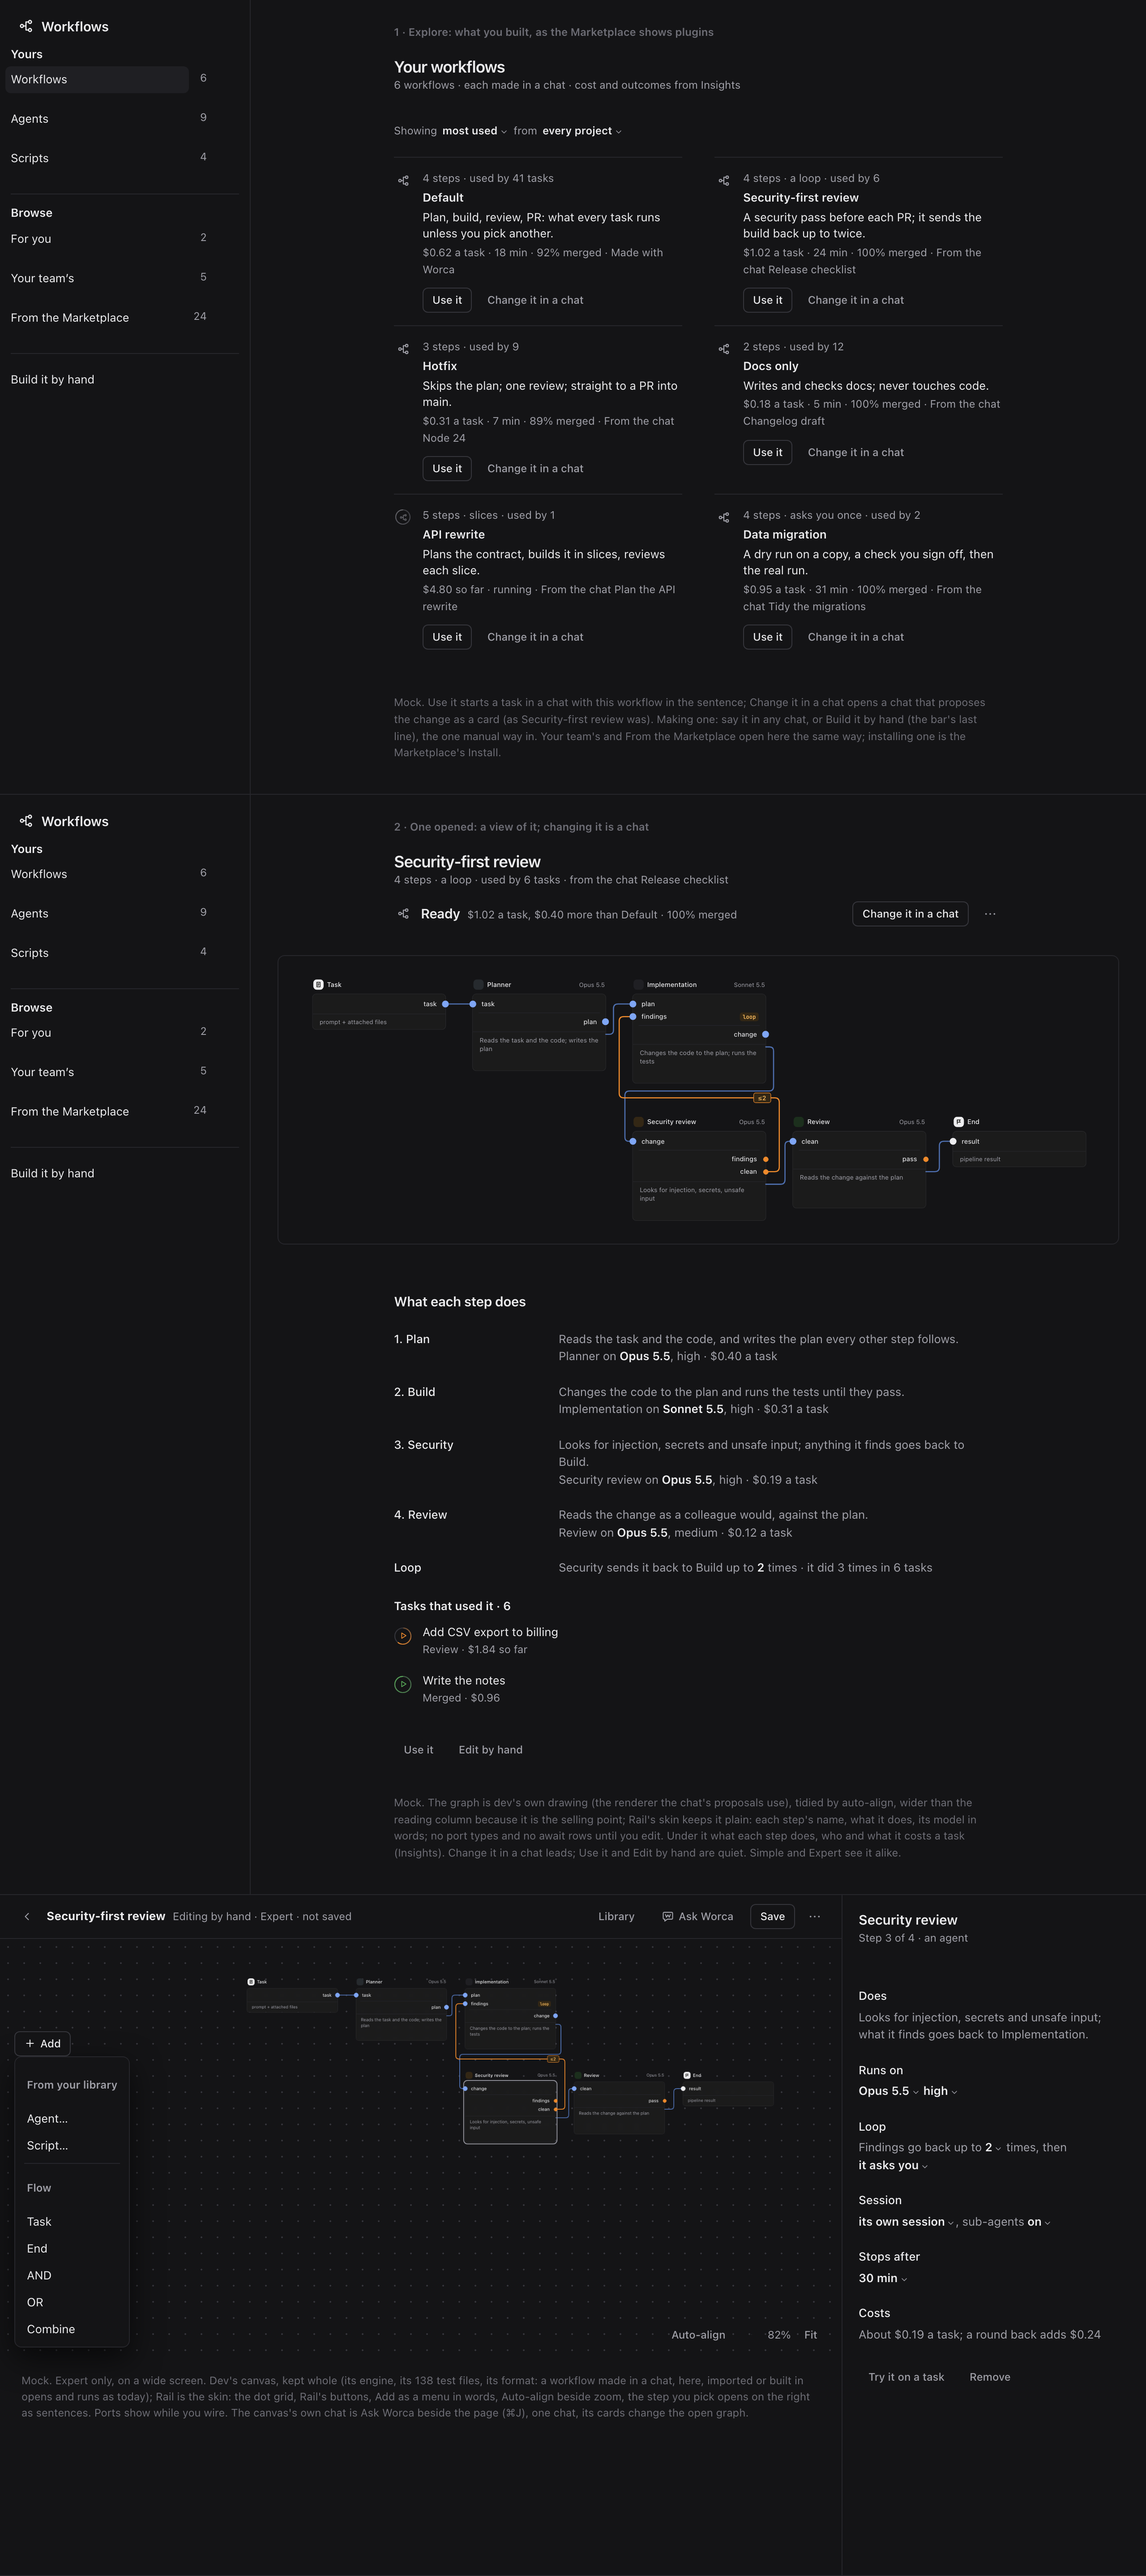
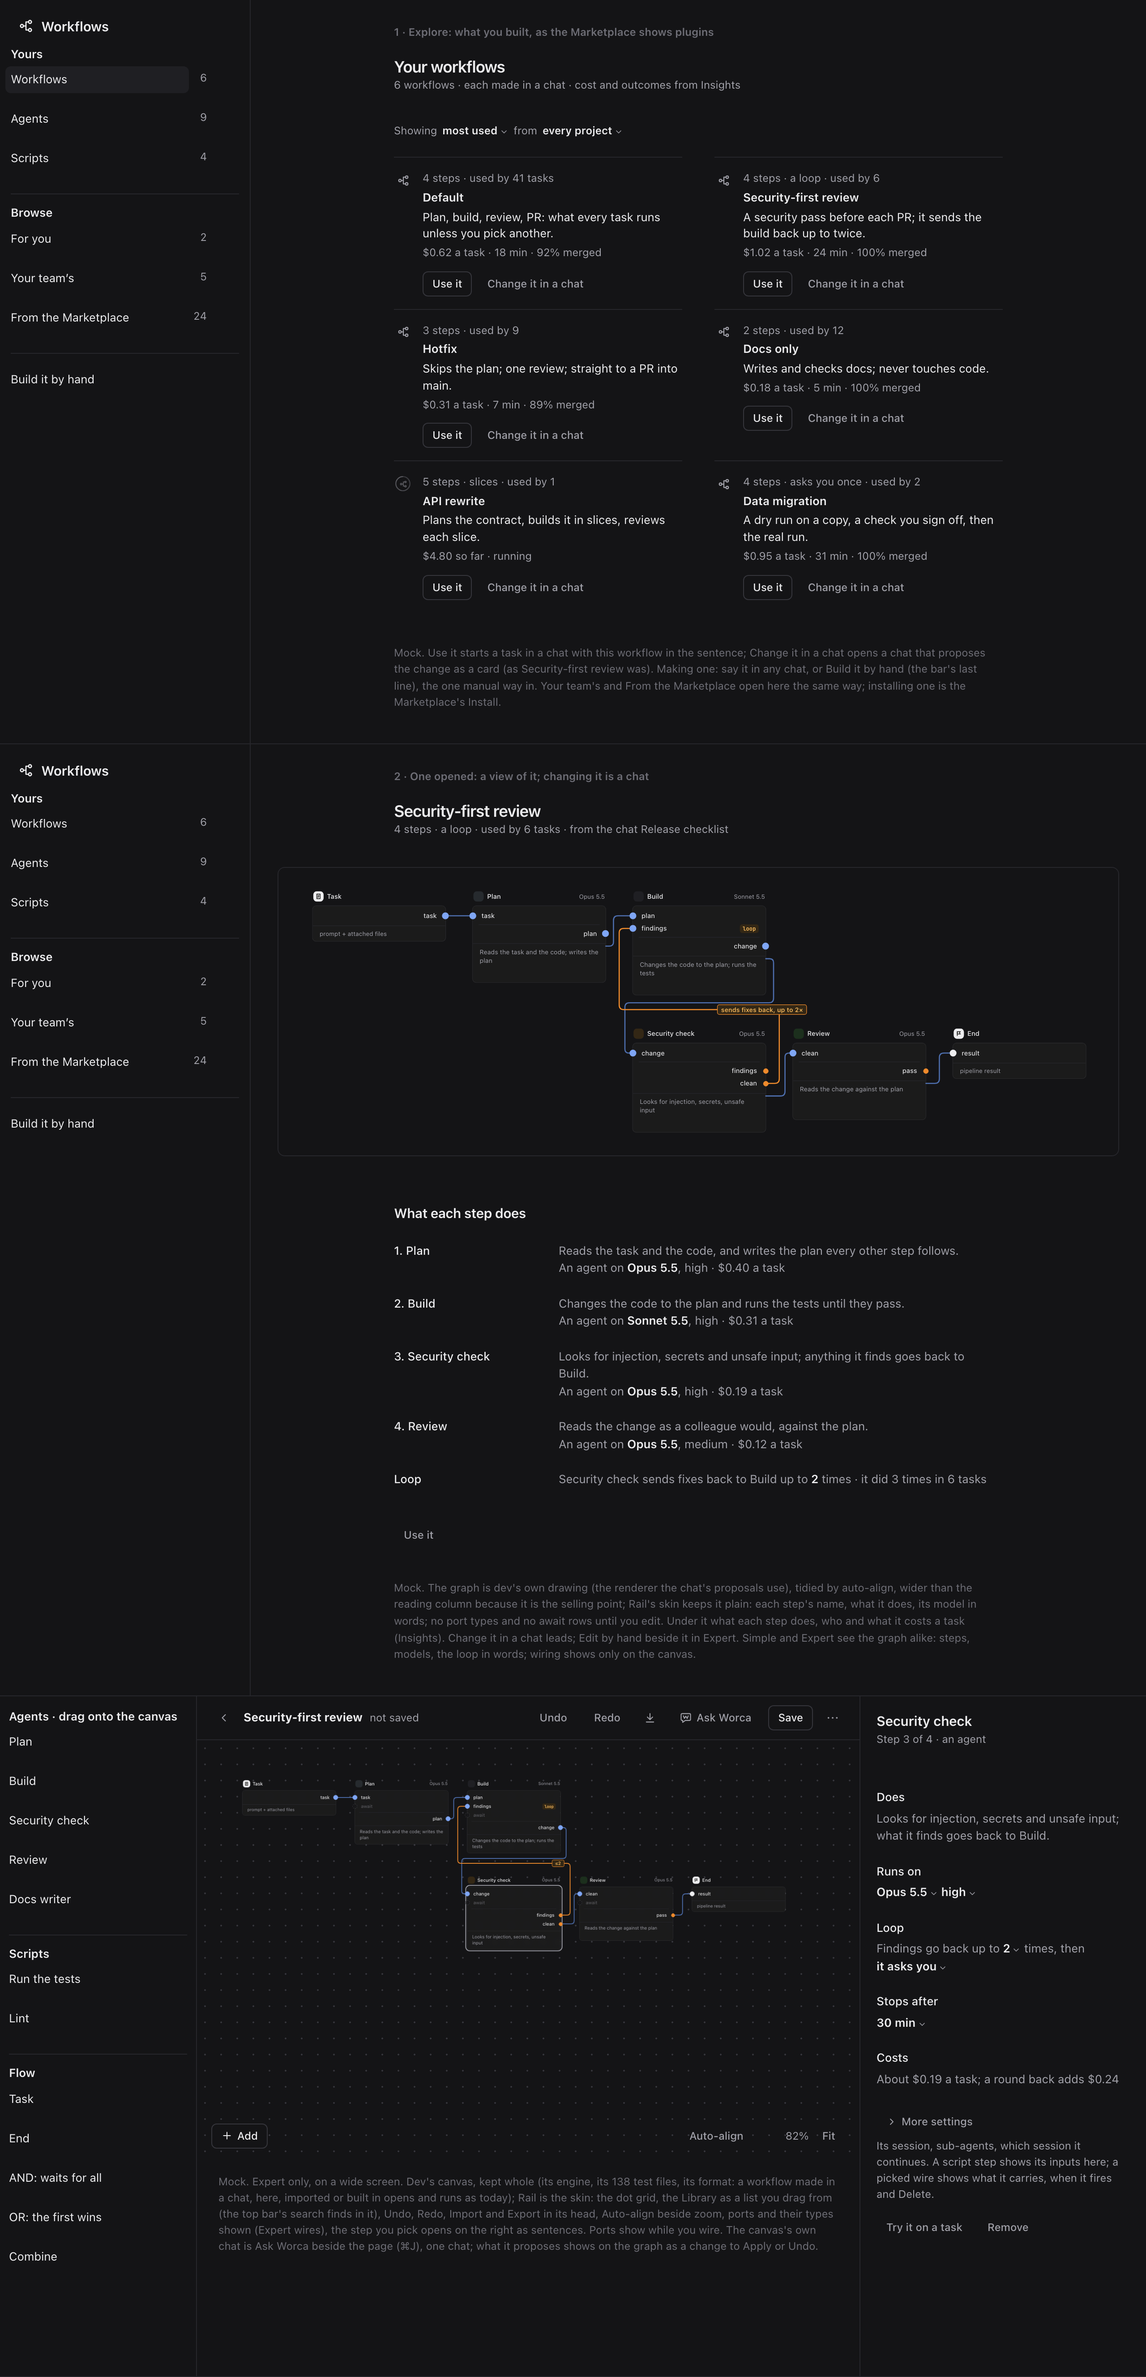
Wave 3: the Workflows mock after both personas: one set of names, the loop in words, cards without provenance; the Expert canvas with Undo, Redo, Import and Export, the Library to drag from, More settings

diff --git a/plans/rail/mocks/wave-3/workflows-2.html b/plans/rail/mocks/wave-3/workflows-2.html
@@ -26,13 +26,15 @@
   .acts{display:flex;gap:6px;margin:14px 0 0;}
   /* dev's graph (ui/public/graph/view.mjs) in Rail's skin: a wide well, plain words (no port types, no await rows) */
   .well{position:relative;height:auto;padding:0;margin:18px -130px 8px;border-radius:var(--r-md);background:var(--panel);border:1px solid var(--line);overflow:hidden;}
-  .skin .prow .pt,.skin .prow.gate,.skin.view .cond{display:none;}
+  .skin .prow .pt,.skin.view .prow.gate,.skin.view .cond{display:none;}
+  .skin.view .wbadge{white-space:nowrap;padding:0 6px;}
+  .lib{border-right:1px solid var(--line);padding:14px 10px;}
   .skin .node.is-picked{outline:2px solid var(--ink-2);outline-offset:3px;border-radius:var(--r-sm);}
-  .fr.ed{grid-template-columns:1fr 340px;}
+  .fr.ed{grid-template-columns:220px 1fr 320px;}
   .ed-top{display:flex;align-items:center;gap:8px;padding:10px 16px;border-bottom:1px solid var(--line);font-size:var(--fs-meta);color:var(--ink-2);}
   .ed-top b{color:var(--ink);font-size:var(--fs-body);} .ed-top .sp{flex:1;}
   .canvas{position:relative;height:470px;background-image:radial-gradient(var(--line-2) 1px,transparent 1px);background-size:18px 18px;}
-  .canvas .gv{position:absolute;left:250px;top:24px;width:640px;}
+  .canvas .gv{position:absolute;left:24px;top:24px;}
   .ed-tools{position:absolute;right:16px;bottom:14px;display:flex;gap:4px;align-items:center;font-size:var(--fs-meta);color:var(--ink-2);}
   .ed-add{position:absolute;left:16px;bottom:14px;}
   .ed-add .cmenu,.ed-add .compact-menu{position:absolute;left:0;bottom:40px;min-width:220px;}
@@ -57,26 +59,26 @@
     ['Docs only', 'Writes and checks docs; never touches code.', '2 steps · used by 12', '$0.18 a task · 5 min · 100% merged', 'From the chat Changelog draft'],
     ['API rewrite', 'Plans the contract, builds it in slices, reviews each slice.', '5 steps · slices · used by 1', '$4.80 so far · running', 'From the chat Plan the API rewrite'],
     ['Data migration', 'A dry run on a copy, a check you sign off, then the real run.', '4 steps · asks you once · used by 2', '$0.95 a task · 31 min · 100% merged', 'From the chat Tidy the migrations']];
-  const cards = W.map(([t, what, kicker, facts, from], k) => R.pluginCard({ mark: wf(k === 4 ? 'run' : 'idle'), kicker: `${kicker}`, title: t, what, facts: `${facts} · ${from}`, action: R.button({ label: 'Use it', kind: '' }), more: R.button({ label: 'Change it in a chat', kind: 'quiet' }) })).join('');
+  const cards = W.map(([t, what, kicker, facts, from], k) => R.pluginCard({ mark: wf(k === 4 ? 'run' : 'idle'), kicker: `${kicker}`, title: t, what, facts, action: R.button({ label: 'Use it', kind: '' }), more: R.button({ label: 'Change it in a chat', kind: 'quiet' }) })).join('');
   const browse = `<div class="col convo-col" style="margin:0"><p class="cap">1 · Explore: what you built, as the Marketplace shows plugins</p>${R.placeHead({ title: 'Your workflows', facts: '6 workflows · each made in a chat · cost and outcomes from Insights' })}
     <div class="sent">Showing ${R.sentencePicker({ id: 's', text: 'most used', items: [], chevron: R.icon('chevron', 10) })} from ${R.sentencePicker({ id: 'f', text: 'every project', items: [], chevron: R.icon('chevron', 10) })}</div>
     <div class="pg-grid">${cards}</div>
     <p class="note">Mock. Use it starts a task in a chat with this workflow in the sentence; Change it in a chat opens a chat that proposes the change as a card (as Security-first review was). Making one: say it in any chat, or Build it by hand (the bar's last line), the one manual way in. Your team's and From the Marketplace open here the same way; installing one is the Marketplace's Install.</p></div>`;
   // each step: what it does, in plain words, then who does it and what it costs a task
   const step = (n, name, does, who, m, e, cost) => R.settingsRow({ name: `${n}. ${name}`, sentence: `${does}<br><span style="color:var(--ink-2)">${who} on <b>${m}</b>, ${e} · ${cost} a task</span>` });
-  const page = `<div class="col convo-col" style="margin:0"><p class="cap">2 · One opened: a view of it; changing it is a chat</p>${R.placeHead({ title: 'Security-first review', facts: '4 steps · a loop · used by 6 tasks · from the chat Release checklist', mark: wf(), word: 'Ready', why: '$1.02 a task, $0.40 more than Default · 100% merged', action: R.button({ label: 'Change it in a chat', kind: '' }), menu: R.moreMenu({ id: 'x', label: 'More', icon: R.icon('more', 16), open: false, items: [] }) })}
+  const page = `<div class="col convo-col" style="margin:0"><p class="cap">2 · One opened: a view of it; changing it is a chat</p>${R.placeHead({ title: 'Security-first review', facts: '4 steps · a loop · used by 6 tasks · from the chat Release checklist', mark: wf(), why: '$1.02 a task, $0.40 more than Default · 100% merged', action: R.button({ label: 'Change it in a chat', kind: '' }) + R.button({ label: 'Edit by hand', kind: 'quiet' }), menu: R.moreMenu({ id: 'x', label: 'More', icon: R.icon('more', 16), open: false, items: [] }) })}
     <div class="well skin view" id="gv-view"></div>
-    ${R.settingsSection({ title: 'What each step does', rows: step(1, 'Plan', 'Reads the task and the code, and writes the plan every other step follows.', 'Planner', 'Opus 5.5', 'high', '$0.40') + step(2, 'Build', 'Changes the code to the plan and runs the tests until they pass.', 'Implementation', 'Sonnet 5.5', 'high', '$0.31') + step(3, 'Security', 'Looks for injection, secrets and unsafe input; anything it finds goes back to Build.', 'Security review', 'Opus 5.5', 'high', '$0.19') + step(4, 'Review', 'Reads the change as a colleague would, against the plan.', 'Review', 'Opus 5.5', 'medium', '$0.12') + R.settingsRow({ name: 'Loop', sentence: 'Security sends it back to Build up to <b>2</b> times · it did 3 times in 6 tasks' }) })}
-    ${R.list({ groups: [{ title: 'Tasks that used it · 6', rows: [R.listRow({ title: 'Add CSV export to billing', meta: 'Review · $1.84 so far', mark: R.kindMark({ kind: 'task', tone: 'ask', stage: 2 }), open: {} }), R.listRow({ title: 'Write the notes', meta: 'Merged · $0.96', mark: R.kindMark({ kind: 'task', tone: 'ok', stage: 4 }), open: {} })] }] })}
-    <div class="acts">${R.button({ label: 'Use it', kind: 'quiet' })}${R.button({ label: 'Edit by hand', kind: 'quiet' })}</div>
-    <p class="note">Mock. The graph is dev's own drawing (the renderer the chat's proposals use), tidied by auto-align, wider than the reading column because it is the selling point; Rail's skin keeps it plain: each step's name, what it does, its model in words; no port types and no await rows until you edit. Under it what each step does, who and what it costs a task (Insights). Change it in a chat leads; Use it and Edit by hand are quiet. Simple and Expert see it alike.</p></div>`;
+    ${R.settingsSection({ title: 'What each step does', rows: step(1, 'Plan', 'Reads the task and the code, and writes the plan every other step follows.', 'An agent', 'Opus 5.5', 'high', '$0.40') + step(2, 'Build', 'Changes the code to the plan and runs the tests until they pass.', 'An agent', 'Sonnet 5.5', 'high', '$0.31') + step(3, 'Security check', 'Looks for injection, secrets and unsafe input; anything it finds goes back to Build.', 'An agent', 'Opus 5.5', 'high', '$0.19') + step(4, 'Review', 'Reads the change as a colleague would, against the plan.', 'An agent', 'Opus 5.5', 'medium', '$0.12') + R.settingsRow({ name: 'Loop', sentence: 'Security check sends fixes back to Build up to <b>2</b> times · it did 3 times in 6 tasks' }) })}
+    <div class="acts">${R.button({ label: 'Use it', kind: 'quiet' })}</div>
+    <p class="note">Mock. The graph is dev's own drawing (the renderer the chat's proposals use), tidied by auto-align, wider than the reading column because it is the selling point; Rail's skin keeps it plain: each step's name, what it does, its model in words; no port types and no await rows until you edit. Under it what each step does, who and what it costs a task (Insights). Change it in a chat leads; Edit by hand beside it in Expert. Simple and Expert see the graph alike: steps, models, the loop in words; wiring shows only on the canvas.</p></div>`;
   const pick = (t) => R.sentencePicker({ id: t, text: t, items: [], chevron: R.icon('chevron', 10) });
   const addMenu = R.compactMenu({ label: 'Add', items: [{ header: 'From your library' }, { id: 'a', text: 'Agent…', help: '9 yours, 24 more in the Marketplace' }, { id: 's', text: 'Script…', help: '4 yours' }, { sep: true }, { header: 'Flow' }, { id: 't', text: 'Task', help: 'Where the task comes in' }, { id: 'e', text: 'End', help: 'What it comes to' }, { id: 'and', text: 'AND', help: 'Waits for every input' }, { id: 'or', text: 'OR', help: 'Goes on with the first' }, { id: 'c', text: 'Combine', help: 'Joins inputs into one' }] });
-  const editor = `<div><div class="ed-top">${R.button({ label: 'Back to Security-first review', kind: 'quiet', iconOnly: true, icon: R.icon('chevL', 14) })}<b>Security-first review</b><span>Editing by hand · Expert · not saved</span><span class="sp"></span>${R.button({ label: 'Library', kind: 'quiet' })}${R.button({ label: 'Ask Worca', kind: 'quiet', icon: R.icon('ask-worca', 14) })}${R.button({ label: 'Save', kind: '' })}${R.moreMenu({ id: 'z', label: 'More', icon: R.icon('more', 16), open: false, items: [] })}</div>
-    <div class="canvas"><div class="gv skin edit" id="gv-edit"></div><div class="ed-add">${R.button({ label: 'Add', kind: '', icon: R.icon('plus', 13) })}${addMenu}</div><div class="ed-tools">${R.button({ label: 'Auto-align', kind: 'quiet' })}${R.button({ label: 'Zoom out', kind: 'quiet', iconOnly: true, icon: R.icon('x', 1) })}<span>82%</span>${R.button({ label: 'Fit', kind: 'quiet' })}</div></div>
-    <p class="note" style="margin:14px 24px">Mock. Expert only, on a wide screen. Dev's canvas, kept whole (its engine, its 138 test files, its format: a workflow made in a chat, here, imported or built in opens and runs as today); Rail is the skin: the dot grid, Rail's buttons, Add as a menu in words, Auto-align beside zoom, the step you pick opens on the right as sentences. Ports show while you wire. The canvas's own chat is Ask Worca beside the page (⌘J), one chat, its cards change the open graph.</p></div>`;
-  const insp = `<aside class="insp"><h2>Security review</h2><p class="m">Step 3 of 4 · an agent</p>${R.settingsSection({ rows: R.settingsRow({ name: 'Does', sentence: 'Looks for injection, secrets and unsafe input; what it finds goes back to Implementation.' }) + R.settingsRow({ name: 'Runs on', sentence: `${pick('Opus 5.5')} ${pick('high')}` }) + R.settingsRow({ name: 'Loop', sentence: `Findings go back up to ${pick('2')} times, then ${pick('it asks you')}` }) + R.settingsRow({ name: 'Session', sentence: `${pick('its own session')}, sub-agents ${pick('on')}` }) + R.settingsRow({ name: 'Stops after', sentence: `${pick('30 min')}` }) + R.settingsRow({ name: 'Costs', sentence: 'About $0.19 a task; a round back adds $0.24' }) })}<div class="acts">${R.button({ label: 'Try it on a task', kind: 'quiet' })}${R.button({ label: 'Remove', kind: 'quiet' })}</div></aside>`;
-  document.getElementById('m').innerHTML = `<div class="fr"><aside class="bar pz-app rail-page">${bar('w')}</aside><main class="main">${browse}</main></div><div class="fr"><aside class="bar pz-app rail-page">${bar('')}</aside><main class="main">${page}</main></div><div class="fr ed">${editor}${insp}</div>`;
+  const editor = `<div><div class="ed-top">${R.button({ label: 'Back to Security-first review', kind: 'quiet', iconOnly: true, icon: R.icon('chevL', 14) })}<b>Security-first review</b><span>not saved</span><span class="sp"></span>${R.button({ label: 'Undo', kind: 'quiet' })}${R.button({ label: 'Redo', kind: 'quiet' })}${R.moreMenu({ id: 'ie', label: 'Import, Export', icon: R.icon('download', 14), open: false, items: [] })}${R.button({ label: 'Ask Worca', kind: 'quiet', icon: R.icon('ask-worca', 14) })}${R.button({ label: 'Save', kind: '' })}${R.moreMenu({ id: 'z', label: 'More', icon: R.icon('more', 16), open: false, items: [] })}</div>
+    <div class="canvas"><div class="gv skin edit" id="gv-edit"></div><div class="ed-add">${R.button({ label: 'Add', kind: '', icon: R.icon('plus', 13) })}</div><div class="ed-tools">${R.button({ label: 'Auto-align', kind: 'quiet' })}${R.button({ label: 'Zoom out', kind: 'quiet', iconOnly: true, icon: R.icon('x', 1) })}<span>82%</span>${R.button({ label: 'Fit', kind: 'quiet' })}</div></div>
+    <p class="note" style="margin:14px 24px">Mock. Expert only, on a wide screen. Dev's canvas, kept whole (its engine, its 138 test files, its format: a workflow made in a chat, here, imported or built in opens and runs as today); Rail is the skin: the dot grid, the Library as a list you drag from (the top bar's search finds in it), Undo, Redo, Import and Export in its head, Auto-align beside zoom, ports and their types shown (Expert wires), the step you pick opens on the right as sentences. Ports show while you wire. The canvas's own chat is Ask Worca beside the page (⌘J), one chat; what it proposes shows on the graph as a change to Apply or Undo.</p></div>`;
+  const insp = `<aside class="insp"><h2>Security check</h2><p class="m">Step 3 of 4 · an agent</p>${R.settingsSection({ rows: R.settingsRow({ name: 'Does', sentence: 'Looks for injection, secrets and unsafe input; what it finds goes back to Build.' }) + R.settingsRow({ name: 'Runs on', sentence: `${pick('Opus 5.5')} ${pick('high')}` }) + R.settingsRow({ name: 'Loop', sentence: `Findings go back up to ${pick('2')} times, then ${pick('it asks you')}` }) + R.settingsRow({ name: 'Stops after', sentence: `${pick('30 min')}` }) + R.settingsRow({ name: 'Costs', sentence: 'About $0.19 a task; a round back adds $0.24' }) })}<div class="acts">${R.button({ label: 'More settings', kind: 'quiet', icon: R.icon('chevR', 12) })}</div><p class="m" style="margin:4px 0 0">Its session, sub-agents, which session it continues. A script step shows its inputs here; a picked wire shows what it carries, when it fires and Delete.</p><div class="acts">${R.button({ label: 'Try it on a task', kind: 'quiet' })}${R.button({ label: 'Remove', kind: 'quiet' })}</div></aside>`;
+  const lib = `<aside class="lib">${R.list({ groups: [{ title: 'Agents · drag onto the canvas', rows: ['Plan', 'Build', 'Security check', 'Review', 'Docs writer'].map((t) => R.listRow({ title: t, mark: R.kindMark({ kind: 'agent' }), open: {} })) }, { title: 'Scripts', rows: ['Run the tests', 'Lint'].map((t) => R.listRow({ title: t, mark: R.kindMark({ kind: 'script' }), open: {} })) }, { title: 'Flow', rows: ['Task', 'End', 'AND: waits for all', 'OR: the first wins', 'Combine'].map((t) => R.listRow({ title: t, mark: R.kindMark({ kind: 'plugin', icon: 'kind-workflow' }), open: {} })) }] })}</aside>`;
+  document.getElementById('m').innerHTML = `<div class="fr"><aside class="bar pz-app rail-page">${bar('w')}</aside><main class="main">${browse}</main></div><div class="fr"><aside class="bar pz-app rail-page">${bar('')}</aside><main class="main">${page}</main></div><div class="fr ed">${lib}${editor}${insp}</div>`;
   mockGraph(document.getElementById('gv-view'), { width: 940 });
-  mockGraph(document.getElementById('gv-edit'), { width: 640, mode: 'edit', select: 'n_sec' });
+  mockGraph(document.getElementById('gv-edit'), { width: 660, mode: 'edit', select: 'n_sec' });
 </script></body></html>

diff --git a/plans/rail/wave-3.md b/plans/rail/wave-3.md
@@ -296,3 +296,14 @@ Selling point (Emil, 8 Nov): workflows and the graph sell Worca. The graph is sh
 a chat's proposal, a task card), drawn by dev's renderer in Rail's skin; only editing by hand is Expert. Mock workflows-2
 redone: frame 2 on dev's renderer (wider than the reading column, plain words), frame 3 the Expert canvas (Add as a menu
 in words, Auto-align beside zoom, the picked step as sentences on the right, Ask Worca as the one chat).
+
+Personas on workflows-2 (8 Nov). New user: browse 7, opened 5, editor 4. Daily user: 6, 7, 5. Taken:
+- Cards keep cost, time, merged; provenance and "Tasks that used it" cut; "Ready" cut; one set of step names everywhere.
+- The loop in words on the graph ("sends fixes back, up to 2×"); port types and await rows hidden on the view.
+- Editor: Undo, Redo, Import and Export in its head; the Library a list to drag from; Add closed; session and sub-agents
+  under More settings; a script step's inputs and a picked wire (what it carries, when, Delete) in the right panel; what
+  Ask Worca proposes shows on the graph to Apply or Undo; Edit by hand beside Change it in a chat for Expert.
+Open:
+- The daily user wants a step's model and effort editable on the view (conflicts with: pages are views, defined in a chat).
+- The new user reads the view's wiring as an engineer's diagram: a plain view mode in the renderer (a step's name, model
+  and one line, wires without port labels) is real work in view.mjs; the mock only hides words.
